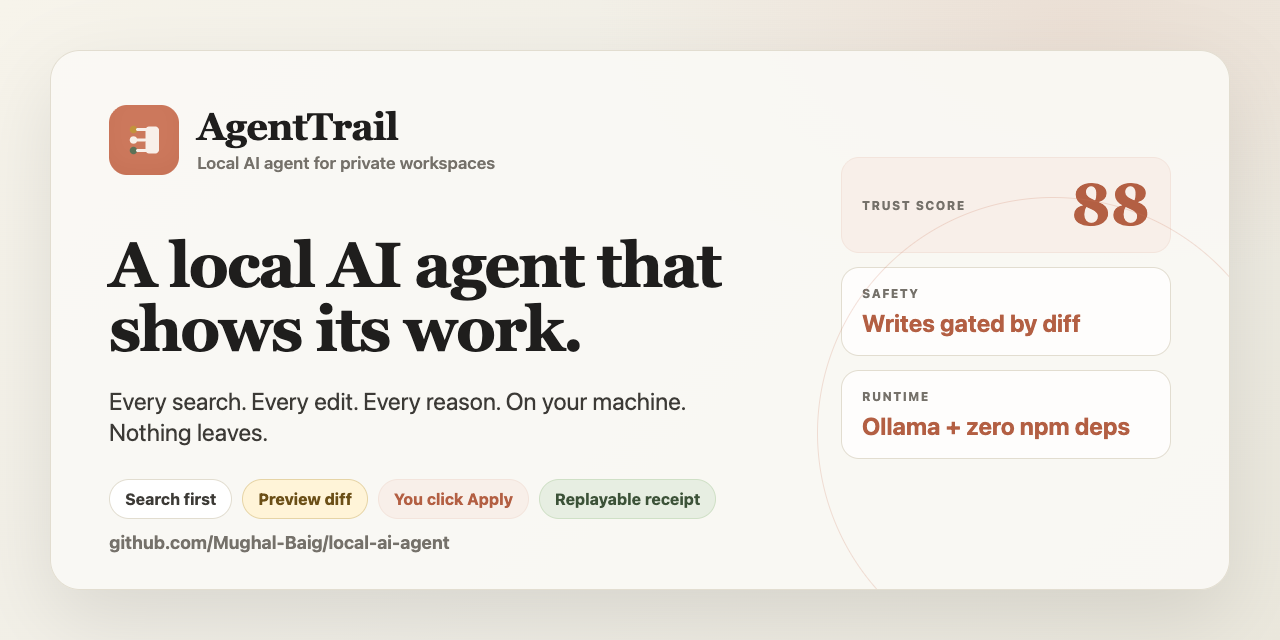
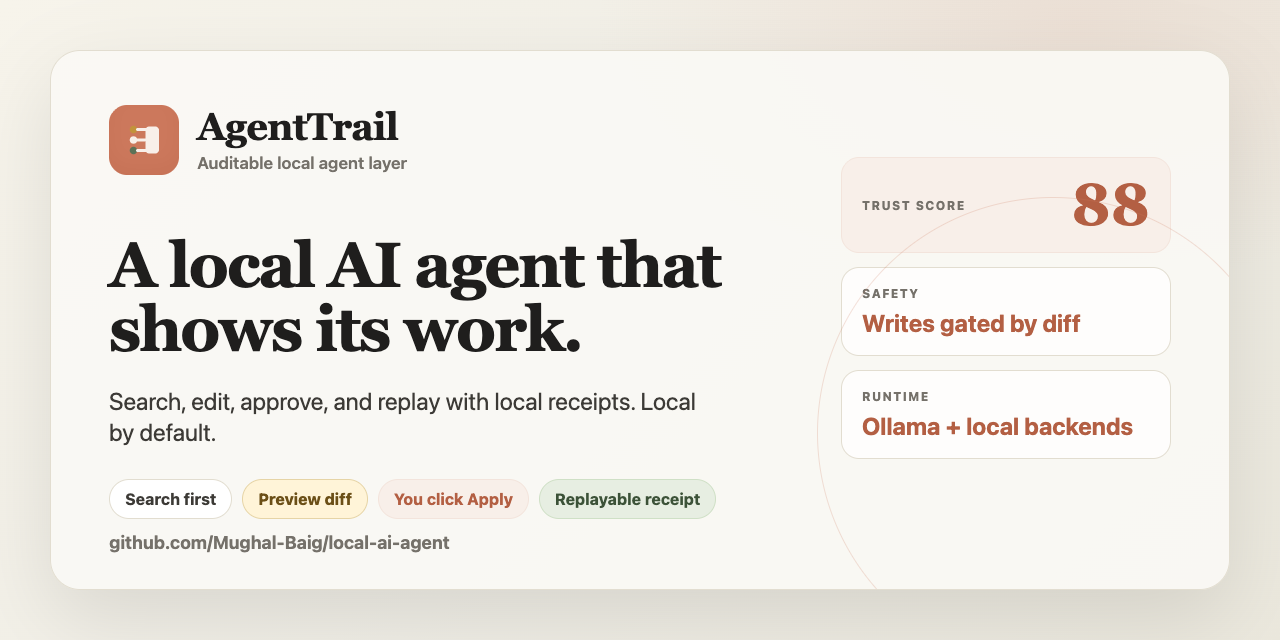
Refresh GitHub visual assets

Changed region(s): [[0.0625, 0.5938, 0.5625, 0.6875], [0.1562, 0.25, 0.4062, 0.2812], [0.75, 0.6562, 0.9062, 0.6875]]

diff --git a/docs/demo.html b/docs/demo.html
@@ -124,7 +124,7 @@
           </svg>
           <div>
             <h1>AgentTrail</h1>
-            <p>Live demo — runs in your browser, no backend</p>
+            <p>Static demo - no backend required</p>
           </div>
         </div>
 
@@ -170,10 +170,10 @@
       <main>
         <header class="topbar">
           <div>
-            <p class="eyebrow">A local agent that shows its work</p>
+            <p class="eyebrow">A local agent layer that shows its work</p>
             <h2>Ask &rarr; search &rarr; diff preview &rarr; you Apply &rarr; receipt</h2>
           </div>
-          <div class="pill">Zero npm dependencies</div>
+          <div class="pill">Ollama + local backends</div>
         </header>
 
         <section class="prompt-strip" aria-label="Starter prompts">
@@ -192,7 +192,7 @@
           <article class="message">
             <div class="avatar">A</div>
             <div class="bubble">
-              <p>I searched the workspace, read <strong>README.md</strong>, and drafted a tighter intro. Nothing has changed on disk — here is the proposed diff. Click <strong>Apply</strong> to write it and generate a receipt.</p>
+              <p>I searched the workspace, read <strong>README.md</strong>, and drafted a tighter intro. No file is written yet - here is the proposed diff. Click <strong>Apply</strong> to write it and generate a receipt.</p>
               <div class="chips">
                 <span>search_workspace</span>
                 <span>read_file</span>
@@ -204,17 +204,17 @@
                   <button class="apply-btn" id="applyBtn" type="button">Apply</button>
                 </div>
                 <pre><span class="del">− AgentTrail is a tiny, auditable local AI agent kit.</span>
-<span class="add">+ A local AI agent that shows its work — every search,</span>
-<span class="add">+ edit, and reason. On your machine. Nothing leaves.</span>
+<span class="add">+ AgentTrail is an auditable local AI agent layer.</span>
+<span class="add">+ Search before answer. Diff before write.</span>
 <span class="add">+</span>
-<span class="add">+ Search before answer · diff before write · a receipt for every run.</span></pre>
+<span class="add">+ Receipts, replay, and reports stay local by default.</span></pre>
               </div>
             </div>
           </article>
         </section>
 
         <section class="composer" aria-label="Try locally">
-          <div>Like what you see? Clone the repo, run <strong>node server.js</strong>, and point it at your local Ollama model.</div>
+          <div>Like what you see? Clone the repo, run <strong>node server.js</strong>, and point it at Ollama or an OpenAI-compatible local backend.</div>
           <a href="https://github.com/Mughal-Baig/local-ai-agent">View on GitHub</a>
         </section>
       </main>

diff --git a/scripts/generate-demo-gif.js b/scripts/generate-demo-gif.js
@@ -3,8 +3,11 @@
 const fsp = require("node:fs/promises");
 const path = require("node:path");
 
-const width = 640;
-const height = 360;
+const scale = 1;
+const baseWidth = 640;
+const baseHeight = 360;
+const width = baseWidth * scale;
+const height = baseHeight * scale;
 const outPath = path.resolve(__dirname, "../docs/agenttrail-demo.gif");
 const palette = [
   [244, 247, 245],
@@ -49,8 +52,8 @@ function drawFrame(activeStep, title, subtitle) {
   fill(pixels, 230, 315, 390, 25, 1);
   rect(pixels, 230, 315, 390, 25, 7);
 
-  drawText(pixels, 44, 44, "AGENTTRAIL", 3, 3);
-  drawText(pixels, 44, 72, "LOCAL AI AGENT", 8, 2);
+  drawText(pixels, 44, 44, "AGENTTRAIL", 3, 2);
+  drawText(pixels, 44, 66, "LOCAL LAYER", 8, 2);
   drawText(pixels, 248, 38, title, activeStep === 3 ? 5 : 3, 3);
   drawText(pixels, 248, 68, subtitle.toUpperCase(), 2, 1);
 
@@ -126,12 +129,16 @@ function drawReceipt(pixels) {
 function drawTrust(pixels, activeStep) {
   const score = 72 + activeStep * 8;
   fill(pixels, 250, 324, Math.round(3.1 * score), 8, 3);
-  drawText(pixels, 250, 296, `TRUST ${score}`, 3, 2);
+  drawText(pixels, 250, 300, `TRUST ${score}`, 3, 2);
 }
 
 function fill(pixels, x, y, w, h, color) {
-  for (let yy = Math.max(0, y); yy < Math.min(height, y + h); yy += 1) {
-    for (let xx = Math.max(0, x); xx < Math.min(width, x + w); xx += 1) {
+  const left = Math.round(x * scale);
+  const top = Math.round(y * scale);
+  const right = Math.round((x + w) * scale);
+  const bottom = Math.round((y + h) * scale);
+  for (let yy = Math.max(0, top); yy < Math.min(height, bottom); yy += 1) {
+    for (let xx = Math.max(0, left); xx < Math.min(width, right); xx += 1) {
       pixels[yy * width + xx] = color;
     }
   }

diff --git a/docs/public-demo.html b/docs/public-demo.html
@@ -136,7 +136,7 @@
       <header>
         <div>
           <h1>A local AI agent that shows its work.</h1>
-          <p>Try the trust loop without installing Ollama: pick a recipe, search local evidence, preview a diff, apply it, and inspect the receipt.</p>
+          <p>Try the trust loop without running a backend: pick a recipe, search local evidence, preview a diff, apply it, and inspect the receipt.</p>
         </div>
         <div class="score">96<span>Trust score</span></div>
       </header>
@@ -172,7 +172,7 @@
             <pre id="diff">--- a/workspace/welcome.md
 +++ b/workspace/welcome.md
 @@
- AgentTrail runs locally with Ollama.
+ AgentTrail runs locally with Ollama or an OpenAI-compatible local backend.
 +Every search, preview, and apply action is saved as an auditable receipt.
 +Writes stay off by default until you approve the exact diff.</pre>
             <div class="actions">

diff --git a/docs/social-preview.html b/docs/social-preview.html
@@ -198,12 +198,12 @@
         </div>
         <div>
           <strong>AgentTrail</strong>
-          <span>Local AI agent for private workspaces</span>
+          <span>Auditable local agent layer</span>
         </div>
       </div>
 
       <h1>A local AI agent that shows its work.</h1>
-      <p class="promise">Every search. Every edit. Every reason. On your machine. Nothing leaves.</p>
+      <p class="promise">Search, edit, approve, and replay with local receipts. Local by default.</p>
       <div class="loop" aria-label="Core loop">
         <span>Search first</span>
         <span>Preview diff</span>
@@ -222,7 +222,7 @@
         </div>
         <div class="proof-card">
           <small>Runtime</small>
-          <strong>Ollama + zero npm deps</strong>
+          <strong>Ollama + local backends</strong>
         </div>
       </aside>
 
